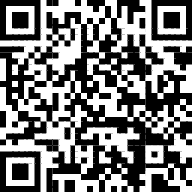
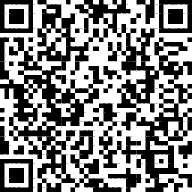
Update links

diff --git a/README.md b/README.md
@@ -31,7 +31,9 @@ Any amount of the donations will be highly appreciated.
 ![QRCode](QRCode.png "QRCode")
 
 <form action="https://www.paypal.com/donate" method="post" target="_top">
-<input type="hidden" name="hosted_button_id" value="FKEH96PFL8REL" />
+<input type="hidden" name="business" value="R49DFL3HNKE5U" />
+<input type="hidden" name="item_name" value="An open source developer" />
+<input type="hidden" name="currency_code" value="USD" />
 <input type="image" src="https://www.paypalobjects.com/en_US/i/btn/btn_donate_LG.gif" border="0" name="submit" title="PayPal - The safer, easier way to pay online!" alt="Donate with PayPal button" />
 <img alt="" border="0" src="https://www.paypal.com/en_US/i/scr/pixel.gif" width="1" height="1" />
 </form>
